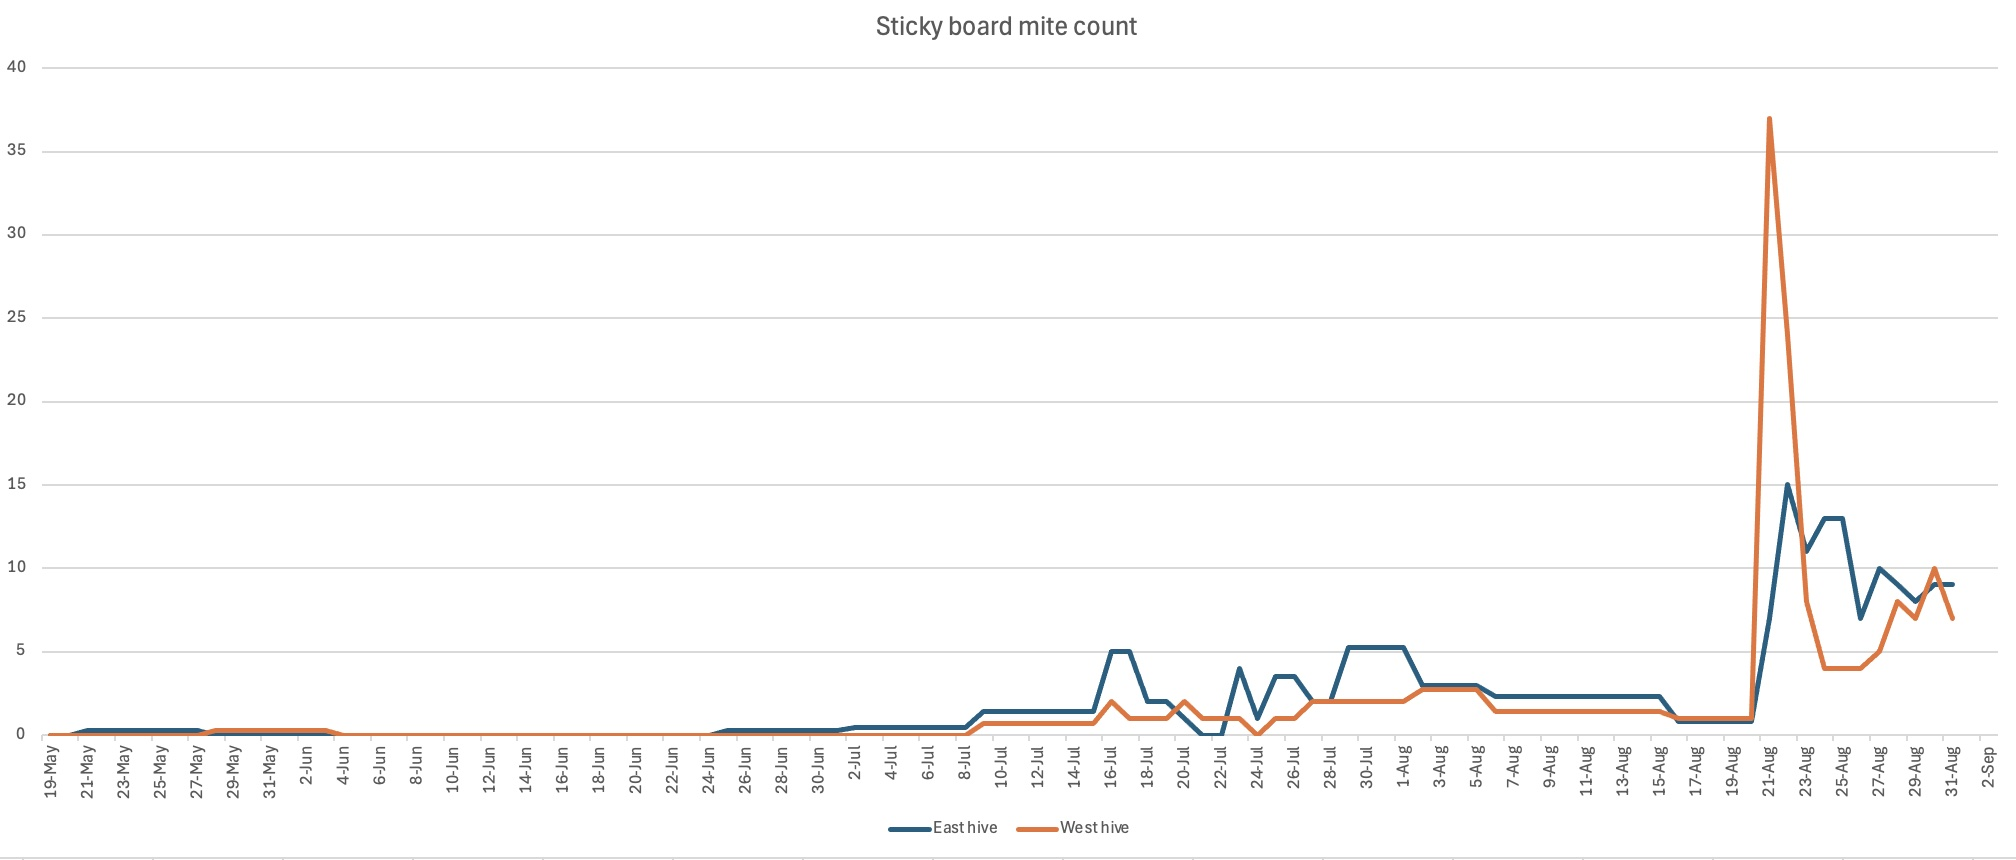
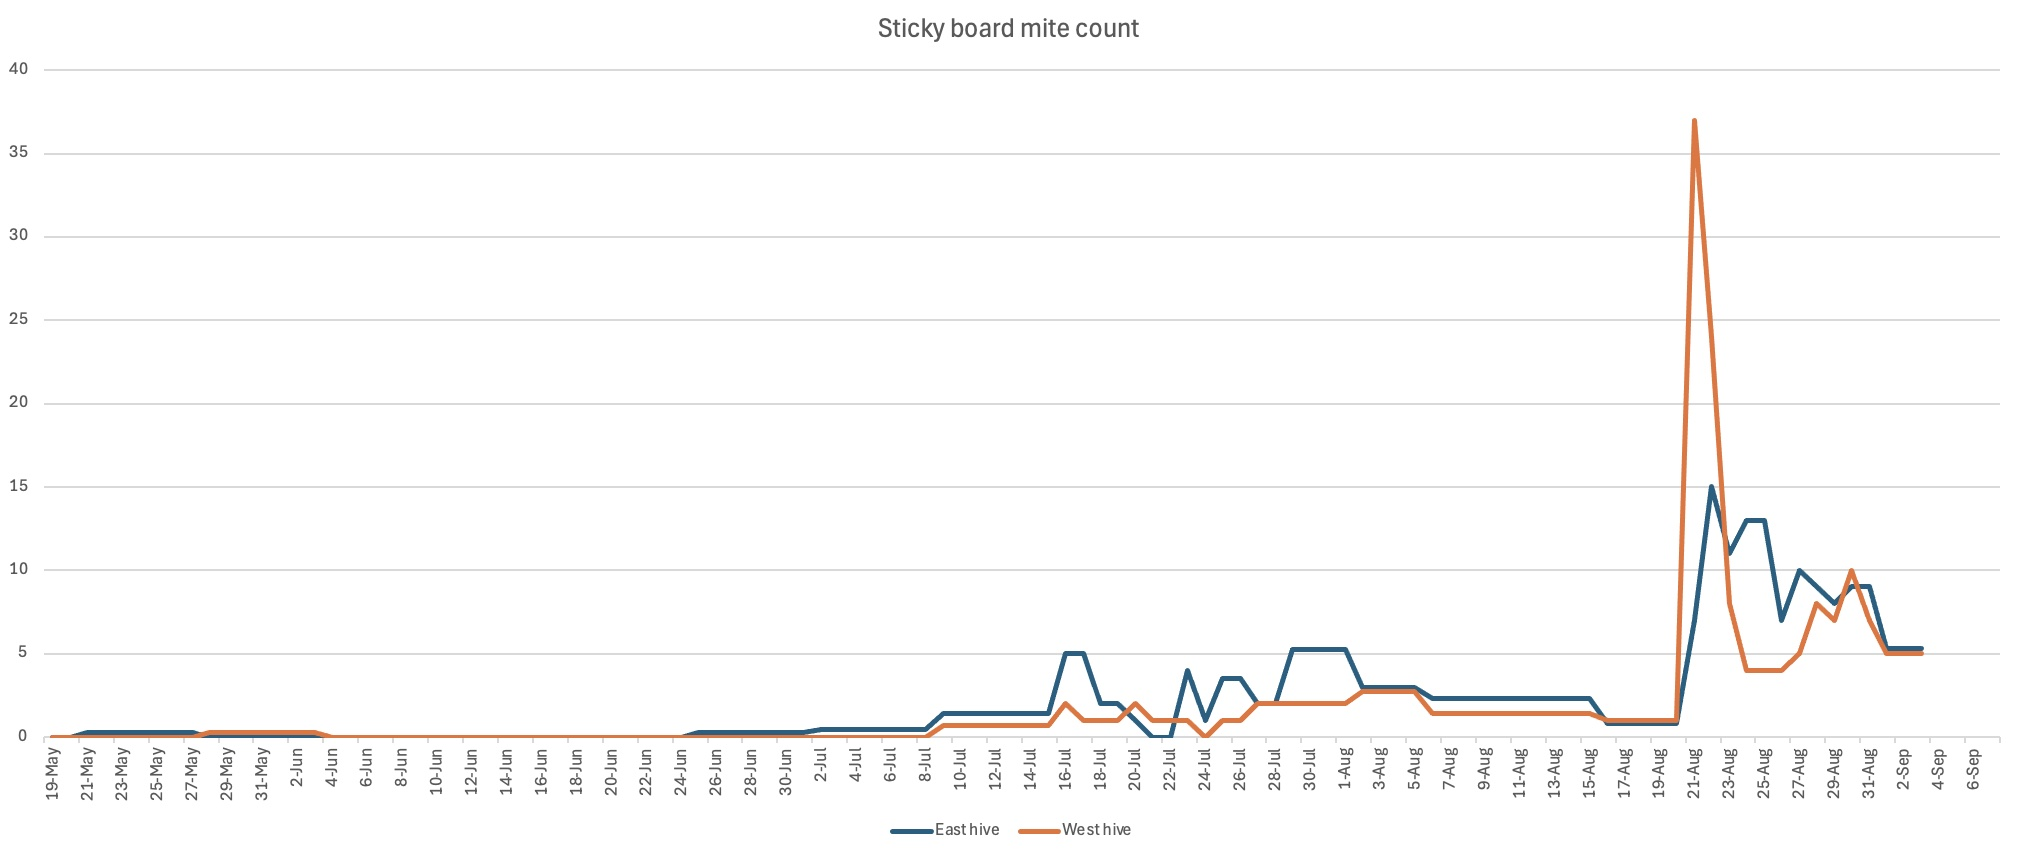
added mite count

Changed region(s): [[0.0, 0.1522, 1.0, 0.9438], [0.0, 0.0, 0.9688, 0.0913], [0.4375, 0.9438, 0.5625, 1.0]]

diff --git a/_posts/2024-09-03-mite-check.md b/_posts/2024-09-03-mite-check.md
@@ -1,0 +1,19 @@
+---
+title: "Mite Check"
+date: 2024-09-03
+---
+
+- Time: ~12.00
+- Temp: ~64F, cloudy
+
+### East nuc
+
+- Bottom board is below hive on the stand supports.
+- Bottom board had 16 mites
+- Wiped and re-oiled the bottom board.
+
+### West nuc
+
+- Bottom board had 15 mites
+- Wiped and re-oiled the bottom board.
+
